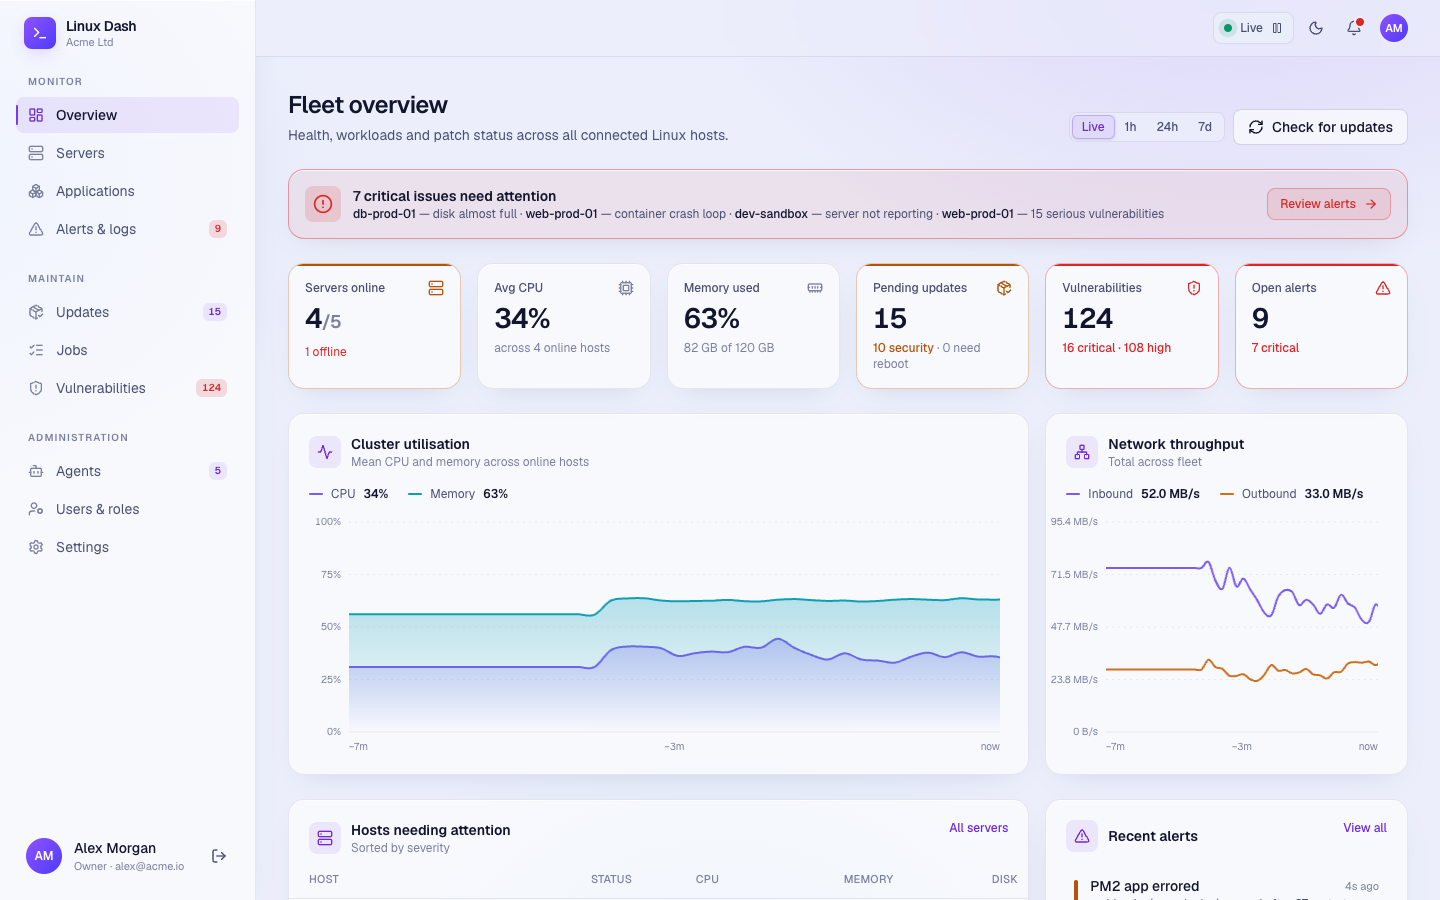
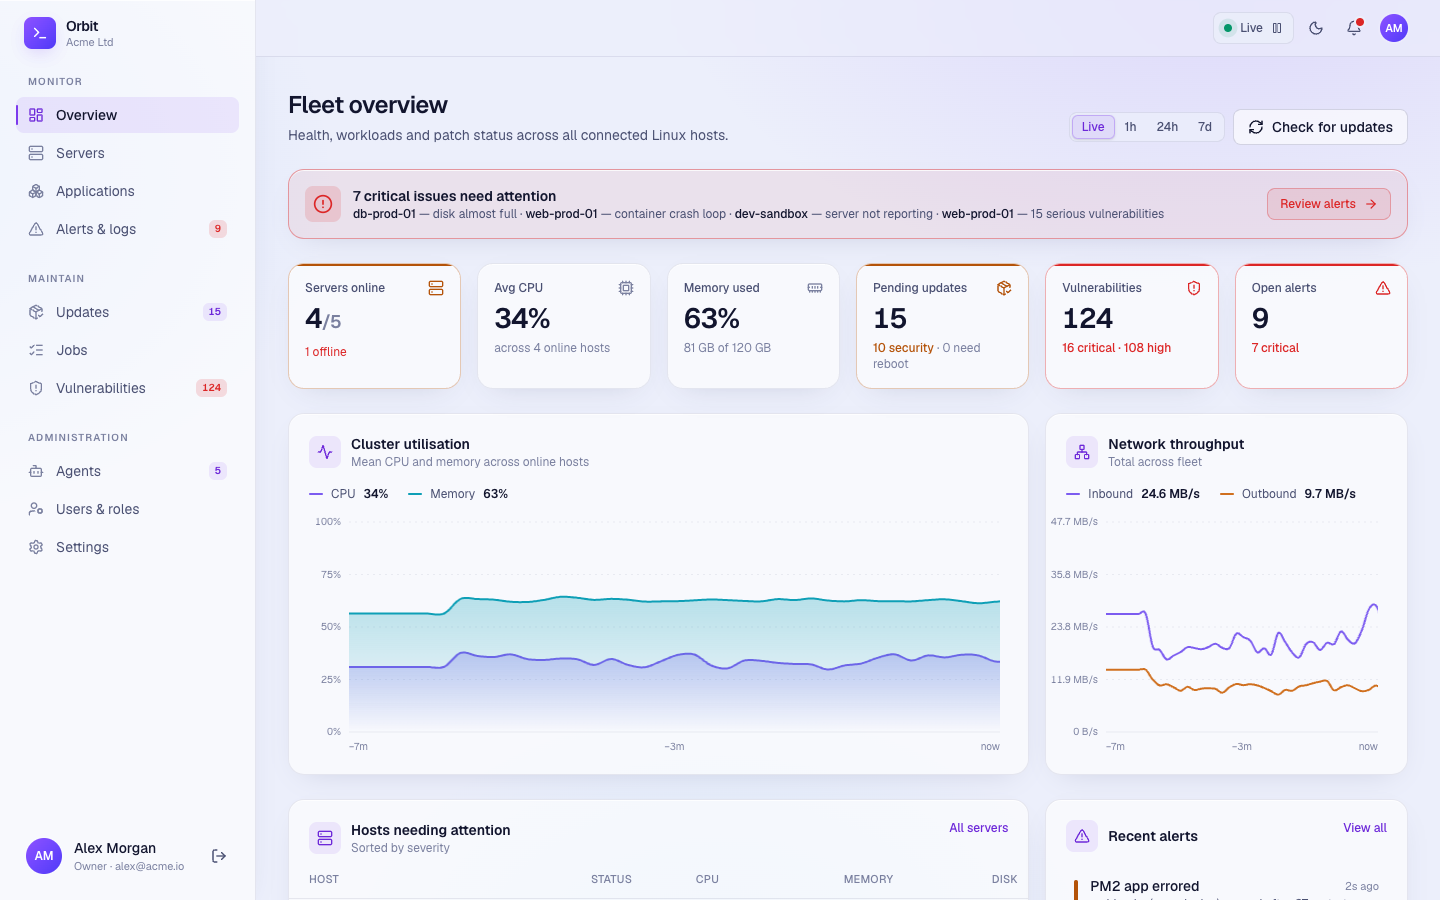
updated names to orbit

diff --git a/app/setup/setup-view.tsx b/app/setup/setup-view.tsx
@@ -59,7 +59,7 @@ export function SetupView() {
   if (finished) return <Finished {...finished} />;
 
   return (
-    <AuthCard title="Set up Linux Dash" subtitle="A few steps to connect a database and create your account." wide>
+    <AuthCard title="Set up Orbit" subtitle="A few steps to connect a database and create your account." wide>
       <ol className="mb-8 grid grid-cols-4 gap-2">
         {STEPS.map((s, i) => {
           const idx = STEPS.findIndex((x) => x.id === step);
@@ -138,7 +138,7 @@ function CodeStep({ onSubmit }: { onSubmit: (code: string) => Promise<void> }) {
 function DatabaseStep({ status, headers, onDone }: { status: Status; headers: Record<string, string>; onDone: () => void }) {
   const [engine, setEngine] = useState<"sqlite" | "postgres">("sqlite");
   const [sqlitePath, setSqlitePath] = useState(status.defaults.sqlitePath);
-  const [pg, setPg] = useState({ host: "localhost", port: "5432", database: "linuxdash", user: "linuxdash", password: "", ssl: "disable", url: "" });
+  const [pg, setPg] = useState({ host: "localhost", port: "5432", database: "orbit", user: "orbit", password: "", ssl: "disable", url: "" });
   const [useUrl, setUseUrl] = useState(false);
   const [result, setResult] = useState<{ ok: boolean; error?: string; version?: string; target?: string; tables?: string[] } | null>(null);
   const [busy, setBusy] = useState<"test" | "save" | null>(null);
@@ -229,7 +229,7 @@ function DatabaseStep({ status, headers, onDone }: { status: Status; headers: Re
               </label>
               {useUrl ? (
                 <Field label="Connection URL">
-                  <input className={cn(inputClass, "font-mono text-xs")} placeholder="postgres://user:password@host:5432/linuxdash" value={pg.url} onChange={(e) => setPg({ ...pg, url: e.target.value })} />
+                  <input className={cn(inputClass, "font-mono text-xs")} placeholder="postgres://user:password@host:5432/orbit" value={pg.url} onChange={(e) => setPg({ ...pg, url: e.target.value })} />
                 </Field>
               ) : (
                 <div className="grid gap-4 sm:grid-cols-6">

diff --git a/lib/server/dist.ts b/lib/server/dist.ts
@@ -4,14 +4,14 @@ import fs from "node:fs";
 import path from "node:path";
 import { dataDir } from "./config";
 
-/** Where `make release` output from linux-dash-agent should be copied. */
+/** Where `make release` output from the agent repo should be copied. */
 export function agentDistDirs() {
-  return [process.env.AGENT_DIST_DIR, path.join(dataDir(), "agent"), path.resolve(process.cwd(), "../linux-dash-agent/dist")].filter(Boolean) as string[];
+  return [process.env.AGENT_DIST_DIR, path.join(dataDir(), "agent"), path.resolve(process.cwd(), "../orbit-agent/dist")].filter(Boolean) as string[];
 }
 
 export const AGENT_ARCHES = ["amd64", "arm64", "arm", "386"] as const;
 export type AgentArch = (typeof AGENT_ARCHES)[number];
-const binaryName = (arch: string) => `linux-dash-agent-linux-${arch}`;
+const binaryName = (arch: string) => `orbit-agent-linux-${arch}`;
 
 /** The first distribution directory that actually contains agent binaries. */
 function releaseDir(): string | null {
@@ -80,8 +80,8 @@ export function findDistFile(name: string): string | null {
 }
 
 export function installScript(publicUrl: string): string | null {
-  const file = findDistFile("install.sh") ?? (fs.existsSync(/*turbopackIgnore: true*/ path.resolve(process.cwd(), "../linux-dash-agent/deploy/install.sh")) ? path.resolve(process.cwd(), "../linux-dash-agent/deploy/install.sh") : null);
+  const file = findDistFile("install.sh") ?? (fs.existsSync(/*turbopackIgnore: true*/ path.resolve(process.cwd(), "../orbit-agent/deploy/install.sh")) ? path.resolve(process.cwd(), "../orbit-agent/deploy/install.sh") : null);
   if (!file) return null;
   // Default the dashboard address to this dashboard, so `curl … | sudo sh` needs no flags.
-  return fs.readFileSync(/*turbopackIgnore: true*/ file, "utf8").replace("SERVER=${LINUX_DASH_SERVER:-}", `SERVER=\${LINUX_DASH_SERVER:-${publicUrl.replace(/[^A-Za-z0-9:/._~\-[\]]/g, "")}}`);
+  return fs.readFileSync(/*turbopackIgnore: true*/ file, "utf8").replace("SERVER=${ORBIT_SERVER:-}", `SERVER=\${ORBIT_SERVER:-${publicUrl.replace(/[^A-Za-z0-9:/._~\-[\]]/g, "")}}`);
 }

diff --git a/app/(app)/agents/agents-view.tsx b/app/(app)/agents/agents-view.tsx
@@ -96,7 +96,7 @@ export function AgentsView() {
         <Card className="lg:col-span-1">
           <CardHeader icon={Package} title="Version this dashboard ships" subtitle={r ? `Built ${dateTime(r.builtAt)}` : undefined} />
           {!r ? (
-            <p className="text-sm text-warn">No agent binaries found. Run <code className="font-mono text-xs">make release VERSION=x.y.z</code> in linux-dash-agent (or rebuild the Docker image), then refresh.</p>
+            <p className="text-sm text-warn">No agent binaries found. Run <code className="font-mono text-xs">make release VERSION=x.y.z</code> in the agent repo (or rebuild the Docker image), then refresh.</p>
           ) : (
             <>
               <p className="tabular text-3xl font-semibold tracking-tight">{r.version ?? <span className="text-warn">unversioned</span>}</p>
@@ -277,9 +277,9 @@ function AgentDetails({ a }: { a: Agent }) {
           The config lives on the server and the dashboard can&apos;t change it, by design: the server decides what the dashboard may do. Edit it, check it, and restart:
         </p>
         <pre className="mt-2 overflow-x-auto rounded bg-[#05070f] p-2 font-mono text-[11px] text-slate-300">
-          {`sudo nano ${i.config_path || "/etc/linux-dash-agent/config.yaml"}
-sudo linux-dash-agent validate
-sudo systemctl restart linux-dash-agent`}
+          {`sudo nano ${i.config_path || "/etc/orbit-agent/config.yaml"}
+sudo orbit-agent validate
+sudo systemctl restart orbit-agent`}
         </pre>
       </div>
     </div>

diff --git a/lib/server/db.ts b/lib/server/db.ts
@@ -67,7 +67,7 @@ export function createDb(cfg: DbConfig): Kysely<DB> {
 }
 
 type Cached = { key: string; db: Kysely<DB>; ready: Promise<void> };
-const g = globalThis as unknown as { __linuxDashDb?: Cached };
+const g = globalThis as unknown as { __orbitDb?: Cached };
 
 export async function getDb(): Promise<Kysely<DB>> {
   const cfg = getDbConfig();
@@ -75,17 +75,17 @@ export async function getDb(): Promise<Kysely<DB>> {
   // The migration list is part of the key: when code with a new migration is
   // loaded (dev hot reload, or a long-running process) it gets applied.
   const key = JSON.stringify(cfg) + "|" + Object.keys(migrations).join(",");
-  if (g.__linuxDashDb?.key !== key) {
-    const old = g.__linuxDashDb;
+  if (g.__orbitDb?.key !== key) {
+    const old = g.__orbitDb;
     const db = createDb(cfg);
-    g.__linuxDashDb = { key, db, ready: migrateToLatest(db).then(() => (cfg.engine === "sqlite" ? compactIfBloated(db) : undefined)) };
+    g.__orbitDb = { key, db, ready: migrateToLatest(db).then(() => (cfg.engine === "sqlite" ? compactIfBloated(db) : undefined)) };
     old?.db.destroy().catch(() => {});
   }
-  const cur = g.__linuxDashDb!;
+  const cur = g.__orbitDb!;
   try {
     await cur.ready;
   } catch (err) {
-    if (g.__linuxDashDb === cur) g.__linuxDashDb = undefined; // retry next time
+    if (g.__orbitDb === cur) g.__orbitDb = undefined; // retry next time
     throw err;
   }
   return cur.db;

diff --git a/lib/server/agent-update.test.ts b/lib/server/agent-update.test.ts
@@ -13,7 +13,7 @@ import { agentsOverview } from "./queries";
 import { ENGINES, testDb } from "./testing";
 
 const dist = fs.mkdtempSync(path.join(os.tmpdir(), "ld-dist-"));
-fs.writeFileSync(path.join(dist, "linux-dash-agent-linux-amd64"), "new agent binary");
+fs.writeFileSync(path.join(dist, "orbit-agent-linux-amd64"), "new agent binary");
 fs.writeFileSync(path.join(dist, "VERSION"), "0.3.0\n");
 process.env.AGENT_DIST_DIR = dist;
 const binarySha = crypto.createHash("sha256").update("new agent binary").digest("hex");
@@ -58,7 +58,7 @@ for (const engine of ENGINES) {
       // The agent receives the checksum of the exact file it will download.
       const delivered = await a.report("0.2.0", info());
       const cmd = delivered.response.commands!.find((c) => c.type === "agent.update")!;
-      assert.deepEqual(cmd.args, { version: "0.3.0", path: "/downloads/linux-dash-agent-linux-amd64", sha256: binarySha });
+      assert.deepEqual(cmd.args, { version: "0.3.0", path: "/downloads/orbit-agent-linux-amd64", sha256: binarySha });
 
       // "Installed; restarting" doesn't finish the job...
       await a.report("0.2.0", info(), [{ id: cmd.id, type: "agent.update", ok: true, output: "installed 0.3.0; restarting", started_at: "", finished_at: "" }]);

diff --git a/components/enrolment.tsx b/components/enrolment.tsx
@@ -41,7 +41,7 @@ export function Enrolment() {
           Install command: <code className="font-mono text-fg">curl -fsSL {data?.publicUrl ?? "…"}/install.sh | sudo sh -s -- --token &lt;TOKEN&gt;</code>
         </p>
         <p className="mt-1 text-subtle">
-          The installer asks for anything else (what to monitor, reboots, auto-updates). Agent binaries are served from <code className="font-mono">/downloads</code>; build them with <code className="font-mono">make release</code> in linux-dash-agent and copy <code className="font-mono">dist/</code> to the dashboard&apos;s data/agent directory (or set AGENT_DIST_DIR).
+          The installer asks for anything else (what to monitor, reboots, auto-updates). Agent binaries are served from <code className="font-mono">/downloads</code>; build them with <code className="font-mono">make release</code> in the agent repo and copy <code className="font-mono">dist/</code> to the dashboard&apos;s data/agent directory (or set AGENT_DIST_DIR).
         </p>
       </div>
       {!data ? (

diff --git a/lib/server/config.ts b/lib/server/config.ts
@@ -3,7 +3,7 @@
  * first-time setup has finished). Everything else lives in the database.
  *
  * DATABASE_URL, when set, overrides the stored database connection:
- *   postgres://user:pass@host:5432/db   or   sqlite:/var/lib/linux-dash/dash.db
+ *   postgres://user:pass@host:5432/db   or   sqlite:/var/lib/orbit/orbit.db
  */
 import crypto from "node:crypto";
 import fs from "node:fs";
@@ -21,7 +21,7 @@ export type AppConfig = {
 export function dataDir() {
   // turbopackIgnore: this is a runtime location, not a build input; without it
   // the file tracer copies the whole project (including data/) into the bundle.
-  return path.resolve(/*turbopackIgnore: true*/ process.env.LINUX_DASH_DATA_DIR || path.join(process.cwd(), "data"));
+  return path.resolve(/*turbopackIgnore: true*/ process.env.ORBIT_DATA_DIR || path.join(process.cwd(), "data"));
 }
 
 const configFile = () => path.join(/*turbopackIgnore: true*/ dataDir(), "config.json");

diff --git a/lib/server/commands.ts b/lib/server/commands.ts
@@ -49,7 +49,7 @@ export function validateCommand(type: unknown, raw: unknown): { type: CommandTyp
       if (action === "refresh") return { type: t, args: {}, label: "Refresh data" };
       if (typeof a.version !== "string" || !/^[A-Za-z0-9][A-Za-z0-9._+-]{0,63}$/.test(a.version)) throw badRequest("Invalid agent version");
       if (typeof a.sha256 !== "string" || !/^[a-f0-9]{64}$/.test(a.sha256)) throw badRequest("Invalid checksum");
-      if (typeof a.path !== "string" || !/^\/downloads\/linux-dash-agent-linux-(amd64|arm64|arm|386)$/.test(a.path)) throw badRequest("Invalid download path");
+      if (typeof a.path !== "string" || !/^\/downloads\/orbit-agent-linux-(amd64|arm64|arm|386)$/.test(a.path)) throw badRequest("Invalid download path");
       return { type: t, args: { version: a.version, path: a.path, sha256: a.sha256 }, label: `Update agent to ${a.version}` };
     }
   }

diff --git a/app/invite/[token]/invite-view.tsx b/app/invite/[token]/invite-view.tsx
@@ -36,7 +36,7 @@ export function InviteView() {
   if (loadError) return <AuthCard title="Invite not valid"><FormError>{loadError}</FormError></AuthCard>;
   if (!invite) return <AuthCard title="Loading invite…"><p className="text-sm text-muted">One moment.</p></AuthCard>;
   return (
-    <AuthCard title={`Join ${invite.orgName || "Linux Dash"}`} subtitle={<>Welcome, {invite.name}. Choose a password for <span className="text-fg">{invite.email}</span>.</>}>
+    <AuthCard title={`Join ${invite.orgName || "Orbit"}`} subtitle={<>Welcome, {invite.name}. Choose a password for <span className="text-fg">{invite.email}</span>.</>}>
       <form onSubmit={submit} className="space-y-4">
         <FormError>{error}</FormError>
         <Field label="Password" hint="At least 10 characters">

diff --git a/lib/server/scheduler.ts b/lib/server/scheduler.ts
@@ -11,15 +11,15 @@ import { expireTargets } from "./jobs";
 import { getSettings } from "./settings";
 
 const TICK_MS = 60_000;
-const g = globalThis as unknown as { __linuxDashScheduler?: NodeJS.Timeout };
+const g = globalThis as unknown as { __orbitScheduler?: NodeJS.Timeout };
 let lastPrune = 0;
 
 export function startScheduler() {
-  if (g.__linuxDashScheduler) return;
-  g.__linuxDashScheduler = setInterval(() => {
+  if (g.__orbitScheduler) return;
+  g.__orbitScheduler = setInterval(() => {
     tick().catch((err) => console.warn("[scheduler]", (err as Error).message));
   }, TICK_MS);
-  g.__linuxDashScheduler.unref?.();
+  g.__orbitScheduler.unref?.();
 }
 
 export async function tick(now = Date.now()) {

diff --git a/app/downloads/[file]/route.ts b/app/downloads/[file]/route.ts
@@ -4,7 +4,7 @@ import { findDistFile } from "@/lib/server/dist";
 
 export async function GET(_req: Request, { params }: { params: Promise<{ file: string }> }) {
   const { file } = await params;
-  if (!/^linux-dash-agent-linux-(amd64|arm64|arm|386)$|^SHA256SUMS$/.test(file)) return new Response("Not found\n", { status: 404 });
+  if (!/^orbit-agent-linux-(amd64|arm64|arm|386)$|^SHA256SUMS$/.test(file)) return new Response("Not found\n", { status: 404 });
   const p = findDistFile(file);
   if (!p) return new Response(`${file} is not available. Build the agent with \`make release\` and copy dist/ to the dashboard's AGENT_DIST_DIR.\n`, { status: 404 });
   const stat = fs.statSync(p);

diff --git a/app/api/settings/webhook-test/route.ts b/app/api/settings/webhook-test/route.ts
@@ -10,7 +10,7 @@ export const POST = route(async () => {
   const url = await getSetting(db, "webhook_url");
   if (!url) throw new ApiError(400, "Save a webhook URL first");
   try {
-    await sendWebhook(url, { text: `✅ Test notification from Linux Dash (sent by ${user.name})` });
+    await sendWebhook(url, { text: `✅ Test notification from Orbit (sent by ${user.name})` });
   } catch (err) {
     throw new ApiError(502, `Webhook failed: ${(err as Error).message}`);
   }
